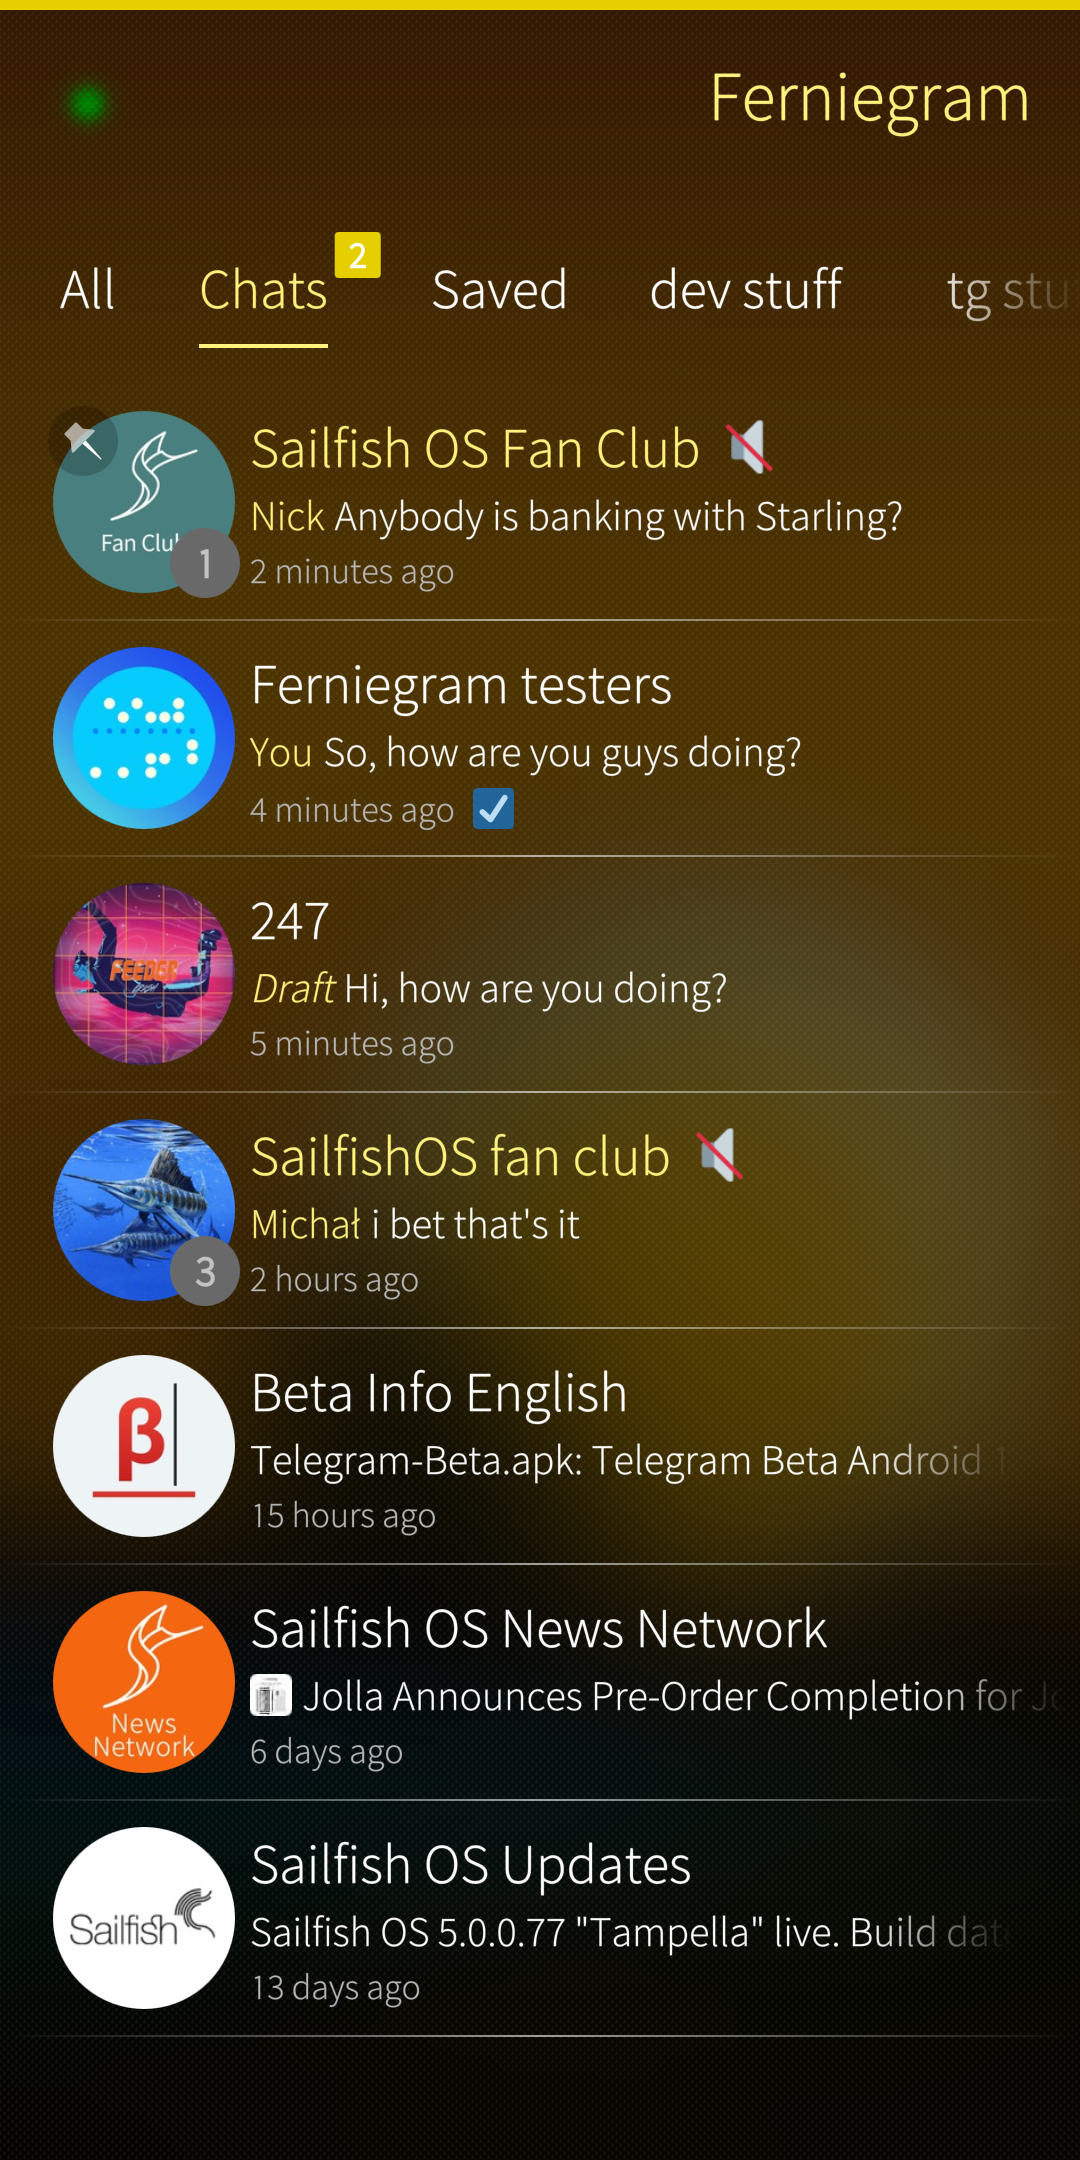
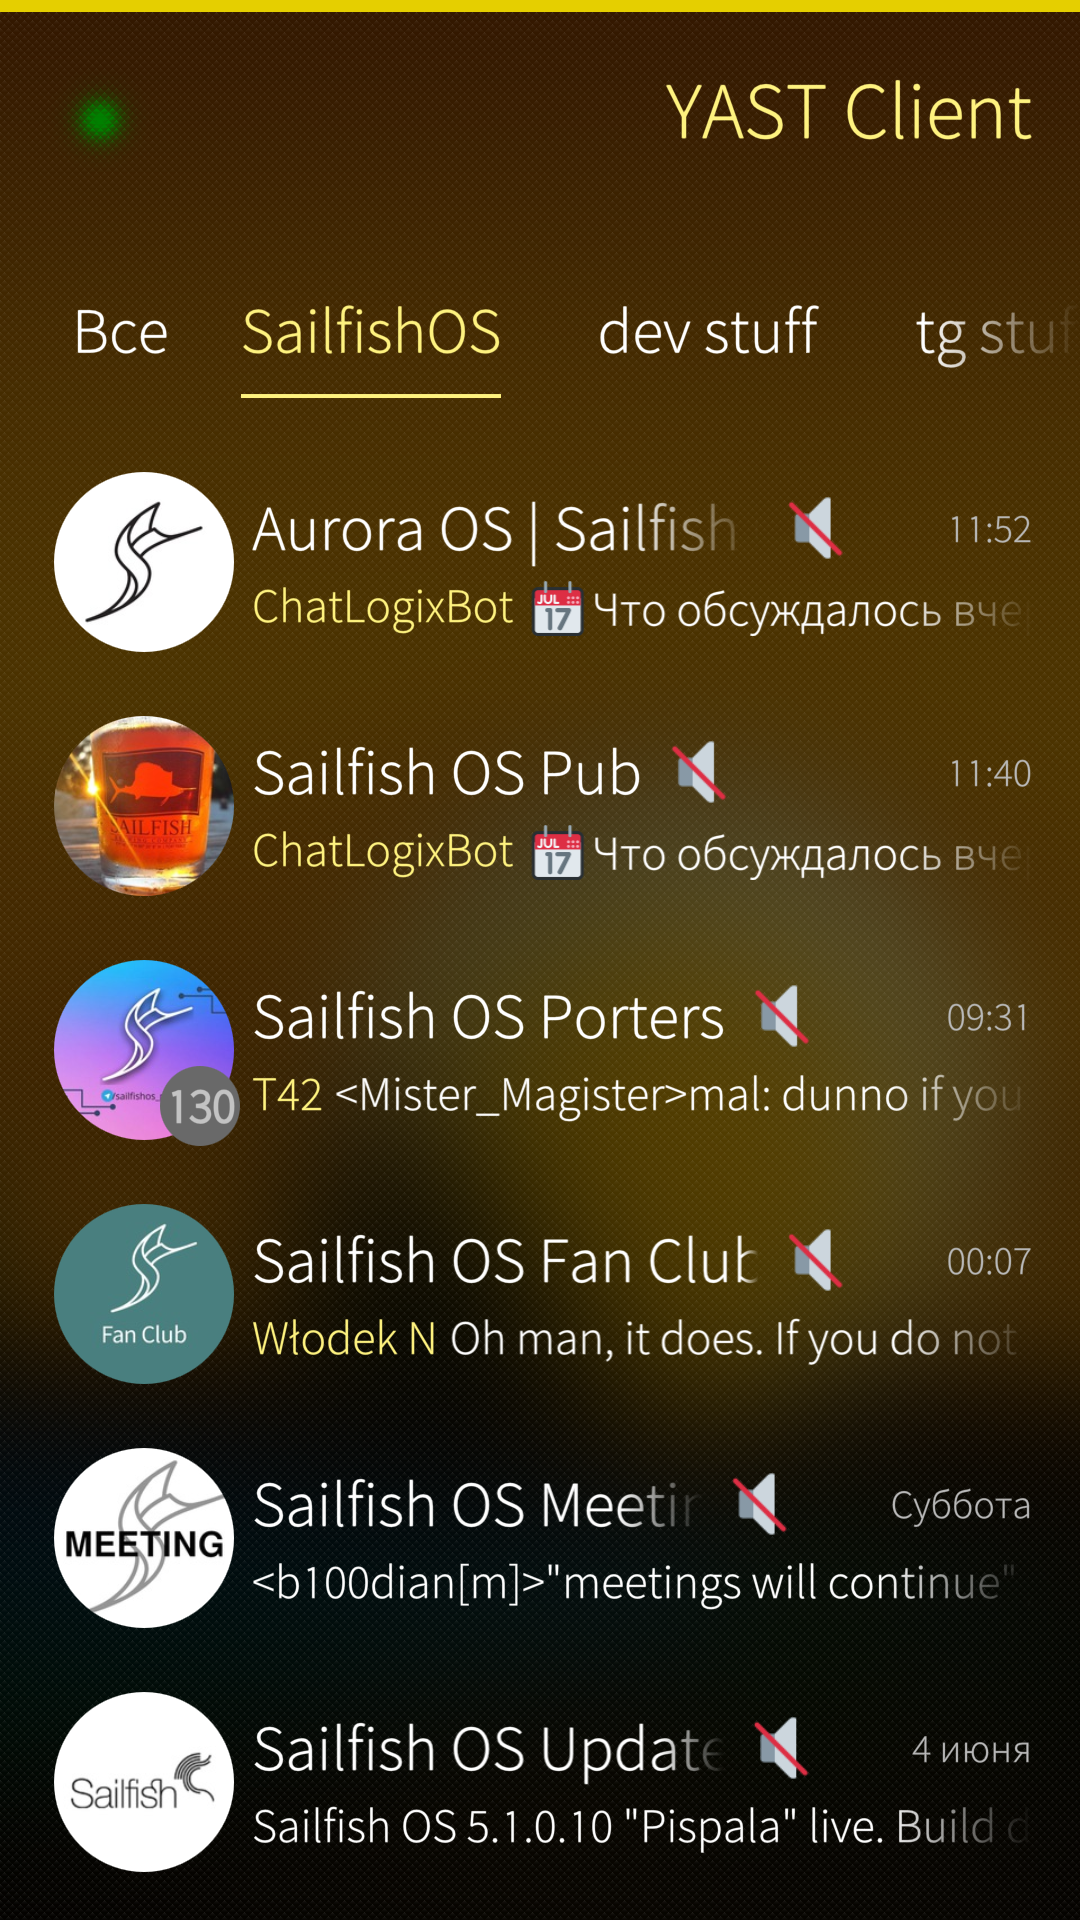
Begin yast rebranding

diff --git a/index.html b/index.html
@@ -4,7 +4,7 @@
     <meta charset="UTF-8">
     <meta name="viewport" content="width=device-width, initial-scale=1.0">
 
-    <title>Ferniegram</title>
+    <title>YAST Client</title>
     <link rel="icon" type="image/x-icon" href="/favicon.ico">
 
     <link rel="stylesheet" href="/static/index.css">
@@ -17,12 +17,12 @@
 <body onload="setupWhyAnimation()">
     <header>
         <a href="/" class="name">
-            <img class="logo" src="/images/fernschreiber2.svg" alt="Ferniegram logo">
-            Ferniegram
+            <img class="logo" src="/images/fernschreiber2.svg" alt="YAST Client logo">
+            YAST Client
         </div>
         <nav>
             <ul>
-                <li><a href="#why">Why Ferniegram</a></li>
+                <li><a href="#why">Why YAST</a></li>
                 <!-- <li><a href="#modern">Modern</a></li> -->
                 <!-- <li><a href="#features">Features</a></li> -->
             </ul>
@@ -31,8 +31,8 @@
     <div class="hero">
         <div class="text">
             <object class="logo" data="/images/fernschreiber2-animated.svg"></object>
-            <h1>Ferniegram</h1>
-            <p>Ferniegram is a <i>better</i> Telegram client for SailfishOS.</p>
+            <h1>YAST Client</h1>
+            <p>YAST Client is a <i>yet another</i> SailfishOS Telegram client.</p>
         </div>
         <div class="screenshot">
             <img src="/images/screenshots/1.png" alt="Ferniegram screenshot">
@@ -42,7 +42,7 @@
     <div class="subhero" id="why">
         <div class="text">
             <h1>Fernschreiber, Revamped</h1>
-            <p>Ferniegram does not try to reinvent the wheel. Instead, it continues the development of Fernschreiber, combining the <b>stability</b> with the <b>rich functionality</b> of modern Telegram.</p>
+            <p>YAST Client does not try to reinvent the wheel. Instead, it continues the development of Fernschreiber, combining the <b>stability</b> with the <b>rich functionality</b> of modern Telegram.</p>
         </div>
         <div class="image">
             <object id="telegram-logo" data="/images/telegram.svg"></object>
@@ -89,8 +89,8 @@
                         <h4>2020</h4>
                     </div>
                     <div class="item highlighted">
-                        <img src="/images/fernschreiber2.svg" alt="Ferniegram logo">
-                        <h3>Ferniegram</h3>
+                        <img src="/images/fernschreiber2.svg" alt="YAST Client logo">
+                        <h3>YAST Client</h3>
                         <h4>2026</h4>
                     </div>
                 </div>
